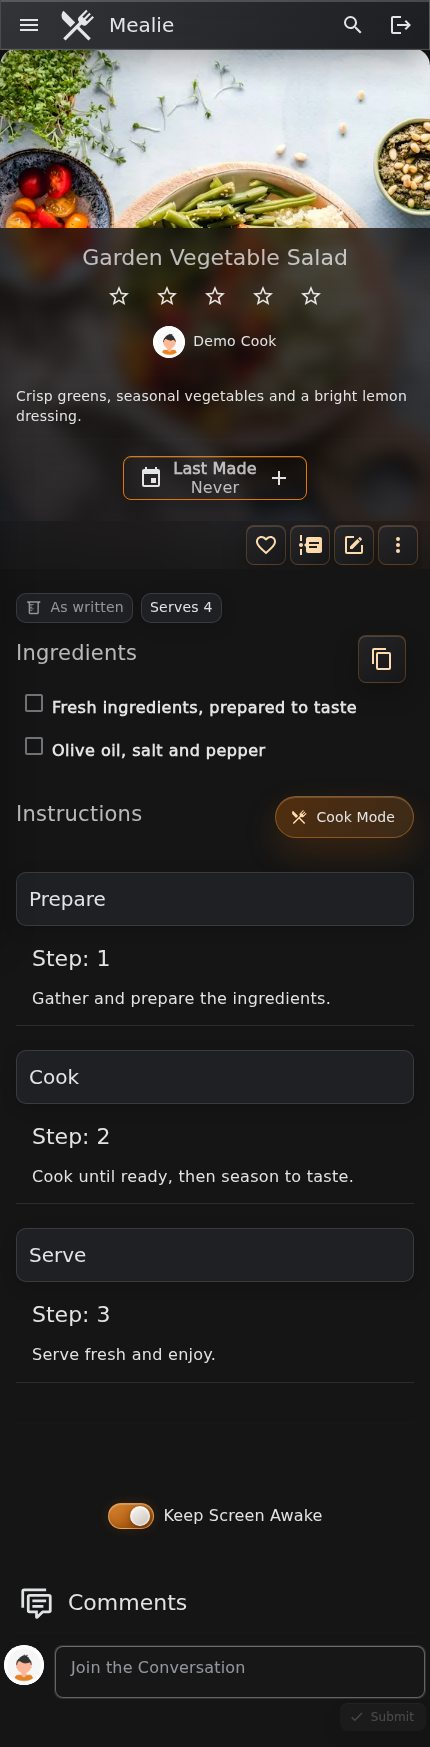
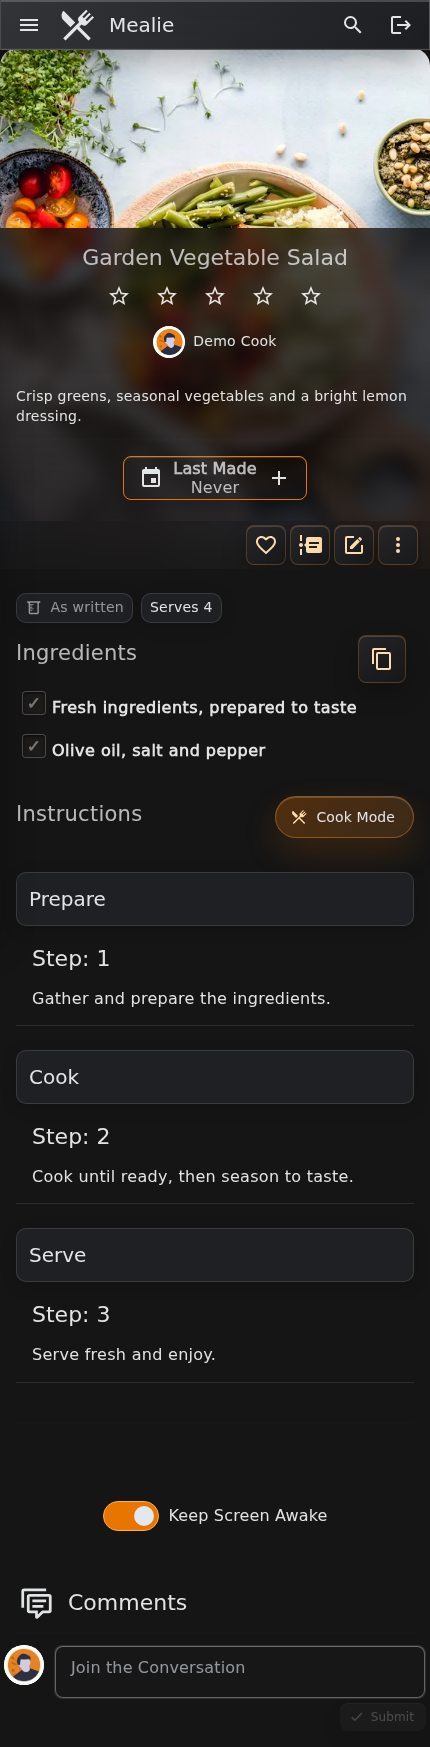
Restyle switches and flip-disc checkboxes
- Keep native controls with keyboard and reduced-motion support
- Refresh mobile documentation screenshot

diff --git a/liquid-glass.css b/liquid-glass.css
@@ -437,10 +437,7 @@ header.v-toolbar,
   border-radius: 8px !important;
 }
 
-/* Glass switch: a translucent track and thumb, without a second outer pill. */
-.v-checkbox .v-selection-control {
-  border-radius: var(--glass-radius-pill) !important;
-}
+/* A simple outlined switch, with an orange track when enabled. */
 .v-switch .v-selection-control {
   min-height: 48px !important;
   padding: 0 !important;
@@ -451,7 +448,7 @@ header.v-toolbar,
   -webkit-backdrop-filter: none !important;
 }
 .v-switch:not(.v-switch--inset) .v-selection-control__wrapper {
-  width: max(40px, calc(46px * var(--v-switch-scale, 1)));
+  width: max(40px, calc(56px * var(--v-switch-scale, 1)));
   flex: 0 0 auto;
 }
 .v-switch .v-label {
@@ -461,30 +458,42 @@ header.v-toolbar,
   text-shadow: none !important;
 }
 .v-switch .v-switch__track {
-  width: calc(46px * var(--v-switch-scale, 1)) !important;
-  min-width: calc(46px * var(--v-switch-scale, 1)) !important;
-  height: max(calc(26px * var(--v-switch-scale, 1)), var(--v-switch-track-height, 0px)) !important;
-  border: 1px solid rgba(255, 255, 255, 0.24) !important;
+  width: calc(56px * var(--v-switch-scale, 1)) !important;
+  min-width: calc(56px * var(--v-switch-scale, 1)) !important;
+  height: max(calc(30px * var(--v-switch-scale, 1)), var(--v-switch-track-height, 0px)) !important;
+  border: 1px solid rgba(226, 232, 240, 0.75) !important;
   border-radius: 999px !important;
   opacity: 1 !important;
-  background: linear-gradient(145deg, rgba(140, 148, 163, 0.35), rgba(53, 57, 68, 0.45)) !important;
-  box-shadow: inset 0 1px 1px rgba(255, 255, 255, 0.18), inset 0 -2px 5px rgba(0, 0, 0, 0.22) !important;
+  background: transparent !important;
+  box-shadow: none !important;
 }
 .v-switch--inset .v-switch__track {
   width: calc(52px * var(--v-switch-scale, 1)) !important;
   min-width: calc(52px * var(--v-switch-scale, 1)) !important;
 }
 .v-switch .v-selection-control--dirty .v-switch__track {
-  border-color: rgba(255, 196, 118, 0.60) !important;
-  background: linear-gradient(145deg, rgba(255, 154, 54, 0.85), rgba(184, 84, 0, 0.78)) !important;
-  box-shadow: inset 0 1px 1px rgba(255, 255, 255, 0.28), inset 0 -2px 5px rgba(100, 45, 0, 0.22), 0 0 12px rgba(220, 105, 0, 0.18) !important;
+  border-color: #ffad4d !important;
+  background: #e87500 !important;
+  box-shadow: none !important;
 }
 .v-switch .v-switch__thumb {
   width: var(--v-switch-thumb-width, 20px) !important;
   height: var(--v-switch-thumb-height, 20px) !important;
-  border: 1px solid rgba(255, 255, 255, 0.70) !important;
-  background: linear-gradient(145deg, rgba(255, 255, 255, 0.95), rgba(206, 215, 225, 0.84)) !important;
-  box-shadow: inset 0 1px 2px rgba(255, 255, 255, 0.9), 0 2px 6px rgba(0, 0, 0, 0.35) !important;
+  border: 0 !important;
+  background: #e2e8f0 !important;
+  box-shadow: none !important;
+}
+.v-locale--is-ltr .v-switch:not(.v-switch--inset) .v-selection-control__input,
+.v-locale--is-ltr.v-switch:not(.v-switch--inset) .v-selection-control__input,
+.v-locale--is-rtl .v-switch:not(.v-switch--inset) .v-selection-control--dirty .v-selection-control__input,
+.v-locale--is-rtl.v-switch:not(.v-switch--inset) .v-selection-control--dirty .v-selection-control__input {
+  transform: translateX(calc(-14px * var(--v-switch-scale, 1)));
+}
+.v-locale--is-ltr .v-switch:not(.v-switch--inset) .v-selection-control--dirty .v-selection-control__input,
+.v-locale--is-ltr.v-switch:not(.v-switch--inset) .v-selection-control--dirty .v-selection-control__input,
+.v-locale--is-rtl .v-switch:not(.v-switch--inset) .v-selection-control__input,
+.v-locale--is-rtl.v-switch:not(.v-switch--inset) .v-selection-control__input {
+  transform: translateX(calc(14px * var(--v-switch-scale, 1)));
 }
 .v-switch .v-selection-control:has(input:focus-visible) .v-switch__track {
   outline: 2px solid #ffd18a;
@@ -517,15 +526,6 @@ header.v-toolbar,
   }
 }
 
-.v-checkbox .v-selection-control__input {
-  border-radius: 10px !important;
-  color: #ffdcaf !important;
-  background: linear-gradient(145deg, rgba(39,39,42,0.72), rgba(24,24,27,0.52)) !important;
-  border: 1px solid rgba(255, 154, 54, 0.24) !important;
-  box-shadow: inset 0 1px 0 rgba(255,255,255,0.10), 0 8px 18px rgba(0,0,0,0.18) !important;
-  transition: transform .16s ease, box-shadow .16s ease, border-color .16s ease;
-  flex: 0 0 auto !important;
-}
 
 /* Long user/settings checkbox labels must wrap instead of being clipped on mobile. */
 .v-checkbox .v-selection-control {
@@ -551,47 +551,6 @@ header.v-toolbar,
   padding-inline-start: 8px !important;
 }
 
-.v-checkbox .v-selection-control:hover .v-selection-control__input {
-  transform: scale(1.05);
-  border-color: rgba(255, 154, 54, 0.46) !important;
-  box-shadow: 0 0 0 3px rgba(255, 154, 54,0.12), 0 10px 24px rgba(0,0,0,0.24) !important;
-}
-
-.v-checkbox:has(input:checked) .v-selection-control__input,
-.v-checkbox .v-selection-control--dirty .v-selection-control__input {
-  background: linear-gradient(135deg, #d96500, #ffb34d) !important;
-  border-color: rgba(255, 215, 164, 0.50) !important;
-  box-shadow: 0 0 0 3px rgba(255, 154, 54,0.16), 0 10px 26px rgba(220, 105, 0,0.26), inset 0 1px 0 rgba(255,255,255,0.28) !important;
-}
-
-.v-checkbox:has(input:checked) .v-selection-control__input::after {
-  content: "✓";
-  position: absolute;
-  inset: 0;
-  display: grid;
-  place-items: center;
-  color: #fff;
-  font-size: 18px;
-  font-weight: 900;
-  line-height: 1;
-  text-shadow: 0 1px 5px rgba(0,0,0,0.42);
-}
-
-.v-checkbox:has(input:checked) .v-selection-control__input svg {
-  opacity: 0 !important;
-}
-
-.v-checkbox .v-icon,
-.v-checkbox svg {
-  color: #ffdcaf !important;
-  fill: currentColor !important;
-}
-
-.v-checkbox .v-selection-control--dirty .v-icon,
-.v-checkbox .v-selection-control--dirty svg {
-  color: #fff !important;
-  fill: currentColor !important;
-}
 
 .v-field {
   background: rgba(24, 24, 27, 0.52) !important;
@@ -820,7 +779,7 @@ hr {
   margin-left: 24px !important;
 }
 
-/* Use Vuetify's checkbox icon without an extra decorative box. */
+/* Flip-disc checkbox inspired by Uiverse.io's chase2k25; preserve the native input and hit target. */
 .v-checkbox .v-selection-control {
   align-items: center !important;
 }
@@ -833,33 +792,66 @@ hr {
 .v-checkbox:not(.v-input--disabled) .v-label {
   cursor: pointer;
 }
-.v-checkbox .v-selection-control__input,
-.v-checkbox .v-selection-control:hover .v-selection-control__input,
-.v-checkbox:has(input:checked) .v-selection-control__input,
-.v-checkbox .v-selection-control--dirty .v-selection-control__input {
+.v-checkbox-btn .v-selection-control__input {
   border: 0 !important;
   background: transparent !important;
   box-shadow: none !important;
-  transform: none;
+  perspective: 800px;
 }
-.v-checkbox:has(input:checked) .v-selection-control__input::after {
-  content: none;
+.v-checkbox-btn .v-selection-control__input > .v-icon {
+  opacity: 0 !important;
 }
-.v-checkbox:has(input:checked) .v-selection-control__input svg {
-  opacity: 1 !important;
+.v-checkbox-btn .v-selection-control__input::after {
+  content: "✓";
+  position: absolute;
+  display: grid;
+  place-items: center;
+  width: 24px;
+  height: 24px;
+  border: 1px solid rgba(226, 232, 240, 0.24);
+  border-radius: 4px;
+  background: #1c1b1a;
+  box-shadow: inset 0 1px 3px rgba(0, 0, 0, 0.7);
+  color: #787572;
+  font-size: 17px;
+  font-weight: 700;
+  line-height: 1;
+  pointer-events: none;
+  transition: background-color 160ms ease, color 160ms ease, box-shadow 160ms ease;
 }
-.v-checkbox .v-icon,
-.v-checkbox svg {
-  color: rgba(226, 232, 240, 0.75) !important;
-  fill: currentColor !important;
+.v-checkbox-btn.v-selection-control--dirty .v-selection-control__input::after,
+.v-checkbox-btn:has(input:indeterminate) .v-selection-control__input::after {
+  border-color: #ffb55b;
+  background: radial-gradient(circle, #ffc857, #fb923c);
+  box-shadow: 0 0 12px rgba(251, 146, 60, 0.35), inset 0 1px 2px rgba(255, 255, 255, 0.3);
+  color: #4d2d00;
+  animation: checkbox-flip 350ms ease;
 }
-.v-checkbox .v-selection-control--dirty .v-icon,
-.v-checkbox .v-selection-control--dirty svg {
-  color: #ffad4d !important;
+.v-checkbox-btn .v-selection-control__input:has(input:indeterminate)::after {
+  content: "−";
 }
-.v-checkbox .v-selection-control__input:has(input:focus-visible) {
-  outline: 2px solid #ffad4d !important;
-  outline-offset: 2px;
+.v-checkbox-btn .v-selection-control__input:has(input:focus-visible)::after {
+  outline: 2px solid #ffad4d;
+  outline-offset: 3px;
+}
+@keyframes checkbox-flip {
+  0% { transform: rotateX(0); }
+  50% { transform: rotateX(85deg); }
+  100% { transform: rotateX(0); }
+}
+@media (forced-colors: active) {
+  .v-checkbox-btn .v-selection-control__input::after {
+    color: GrayText;
+    border-color: ButtonText;
+    background: Canvas;
+    box-shadow: none;
+  }
+  .v-checkbox-btn.v-selection-control--dirty .v-selection-control__input::after,
+  .v-checkbox-btn:has(input:indeterminate) .v-selection-control__input::after {
+    color: HighlightText;
+    border-color: Highlight;
+    background: Highlight;
+  }
 }
 
 /* Menu lists use one surface and compact rows, not a card per item. */
@@ -1828,9 +1820,6 @@ section:has(> .v-card.pb-2 + .v-row > .v-col > .v-card.left-border) > .v-row > .
   backdrop-filter: none !important;
   -webkit-backdrop-filter: none !important;
 }
-.v-switch:not(.v-input--disabled):not(.v-input--readonly) .v-selection-control__input:active .v-switch__thumb {
-  box-shadow: inset 0 1px 2px rgba(255, 255, 255, 0.95), 0 2px 8px rgba(0, 0, 0, 0.38), 0 0 0 3px rgba(255, 255, 255, 0.14) !important;
-}
 @media (prefers-reduced-transparency: reduce), (prefers-contrast: more) {
   :root {
     --content-surface: #202124;
@@ -1858,9 +1847,12 @@ section:has(> .v-card.pb-2 + .v-row > .v-col > .v-card.left-border) > .v-row > .
 @media (prefers-reduced-motion: reduce) {
   .v-btn,
   .v-list-item,
+  .v-switch .v-selection-control__input,
+  .v-checkbox-btn .v-selection-control__input::after,
   .v-switch__track,
   .v-switch__thumb {
     transition: none !important;
+    animation: none !important;
   }
   .v-btn:hover {
     transform: none;

diff --git a/README.md b/README.md
@@ -19,6 +19,8 @@ have accessible fallbacks.
 Recipe cards use centered image crops; open a recipe and click its photo to
 view the complete image in Mealie's lightbox.
 Recipe categories, tags, and nutrition use flat sections on desktop and mobile.
+Switches use a simple outlined track; checkboxes use an orange flip-disc
+treatment inspired by Uiverse.io's chase2k25.
 
 ## Screenshots
 
